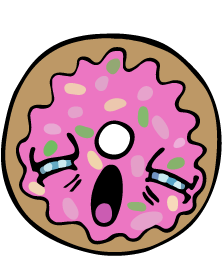
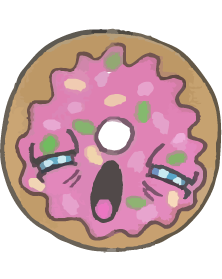
Revert "update graphics, added home link to nav"
This reverts commit 7402961cfb404d296c4a3b9ce1f25fb8f2301bf9.

diff --git a/about.html b/about.html
@@ -27,7 +27,6 @@
         	</div>
         	<div id="navbar" class="collapse navbar-collapse">
           		<ul class="nav navbar-nav">
-            		<li><a href="index.html">Home</a></li>
             		<li class="active"><a href="about.html">About</a></li>
             		<li><a href="upload.html">Upload</a></li>
             		<li><a href="sources.html">Sources</a></li>

diff --git a/sources.html b/sources.html
@@ -27,7 +27,6 @@
         	</div>
         	<div id="navbar" class="collapse navbar-collapse">
           		<ul class="nav navbar-nav">
-            		<li><a href="index.html">Home</a></li>
             		<li><a href="about.html">About</a></li>
             		<li><a href="upload.html">Upload</a></li>
             		<li class="active"><a href="sources.html">Sources</a></li>

diff --git a/upload.html b/upload.html
@@ -27,7 +27,6 @@
         	</div>
         	<div id="navbar" class="collapse navbar-collapse">
           		<ul class="nav navbar-nav">
-            		<li><a href="index.html">Home</a></li>
             		<li><a href="about.html">About</a></li>
             		<li class="active"><a href="upload.html">Upload</a></li>
             		<li><a href="sources.html">Sources</a></li>

diff --git a/index.html b/index.html
@@ -28,7 +28,6 @@
         	</div>
         	<div id="navbar" class="collapse navbar-collapse">
           		<ul class="nav navbar-nav">
-            		<li><a href="index.html">Home</a></li>
             		<li><a href="about.html">About</a></li>
             		<li><a href="upload.html">Upload</a></li>
             		<li><a href="sources.html">Sources</a></li>

diff --git a/more-burger.html b/more-burger.html
@@ -30,7 +30,6 @@
         	</div>
         	<div id="navbar" class="collapse navbar-collapse">
           		<ul class="nav navbar-nav">
-            		<li><a href="index.html">Home</a></li>
             		<li><a href="about.html">About</a></li>
             		<li><a href="upload.html">Upload</a></li>
             		<li><a href="sources.html">Sources</a></li>

diff --git a/more-candy.html b/more-candy.html
@@ -31,7 +31,6 @@
         	</div>
         	<div id="navbar" class="collapse navbar-collapse">
           		<ul class="nav navbar-nav">
-            		<li><a href="index.html">Home</a></li>
             		<li><a href="about.html">About</a></li>
             		<li><a href="upload.html">Upload</a></li>
             		<li><a href="sources.html">Sources</a></li>

diff --git a/more-cherry.html b/more-cherry.html
@@ -32,7 +32,6 @@
         	</div>
         	<div id="navbar" class="collapse navbar-collapse">
           		<ul class="nav navbar-nav">
-            		<li><a href="index.html">Home</a></li>
             		<li><a href="about.html">About</a></li>
             		<li><a href="upload.html">Upload</a></li>
             		<li><a href="sources.html">Sources</a></li>

diff --git a/more-coffee.html b/more-coffee.html
@@ -30,7 +30,6 @@
         	</div>
         	<div id="navbar" class="collapse navbar-collapse">
           		<ul class="nav navbar-nav">
-            		<li><a href="index.html">Home</a></li>
             		<li><a href="about.html">About</a></li>
             		<li><a href="upload.html">Upload</a></li>
             		<li><a href="sources.html">Sources</a></li>

diff --git a/more-donut.html b/more-donut.html
@@ -32,7 +32,6 @@
         	</div>
         	<div id="navbar" class="collapse navbar-collapse">
           		<ul class="nav navbar-nav">
-            		<li><a href="index.html">Home</a></li>
             		<li><a href="about.html">About</a></li>
             		<li><a href="upload.html">Upload</a></li>
             		<li><a href="sources.html">Sources</a></li>

diff --git a/more-onion.html b/more-onion.html
@@ -28,7 +28,6 @@
         	</div>
         	<div id="navbar" class="collapse navbar-collapse">
           		<ul class="nav navbar-nav">
-            		<li><a href="index.html">Home</a></li>
             		<li><a href="about.html">About</a></li>
             		<li><a href="upload.html">Upload</a></li>
             		<li><a href="sources.html">Sources</a></li>
